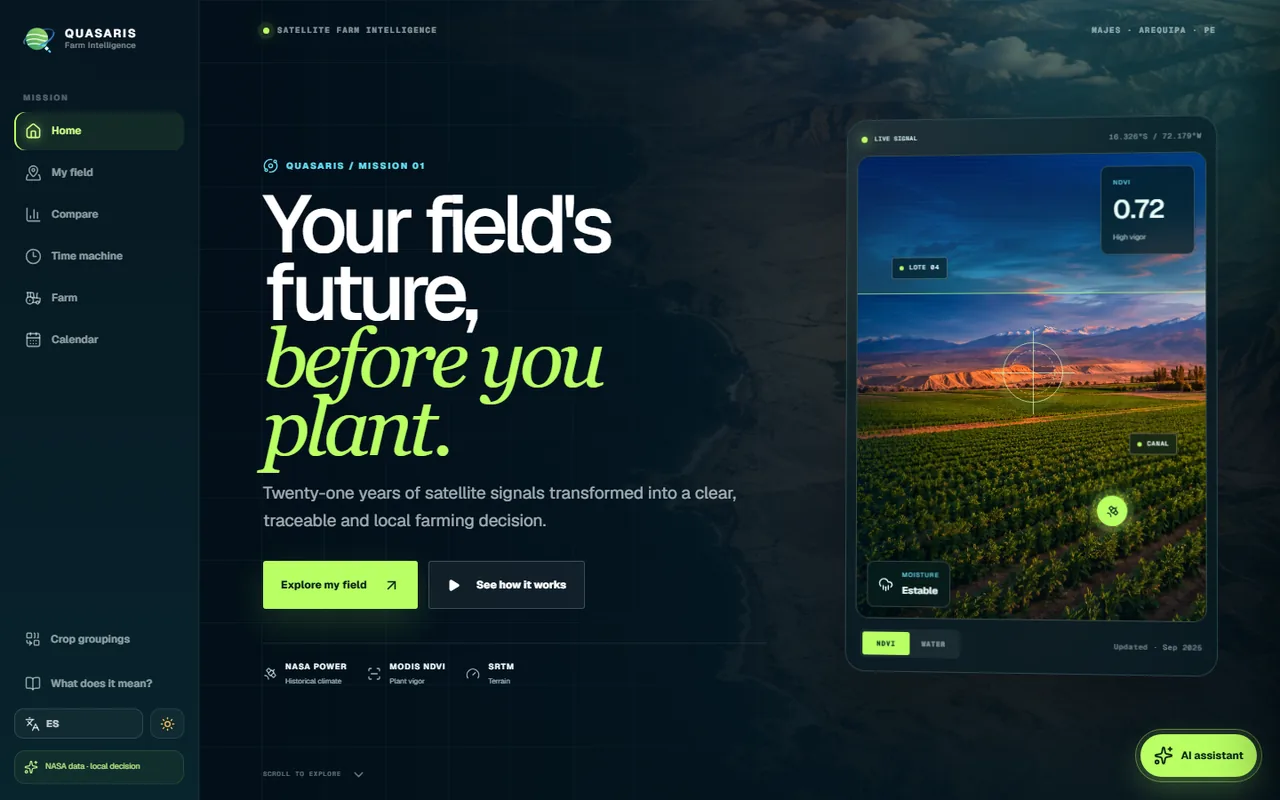
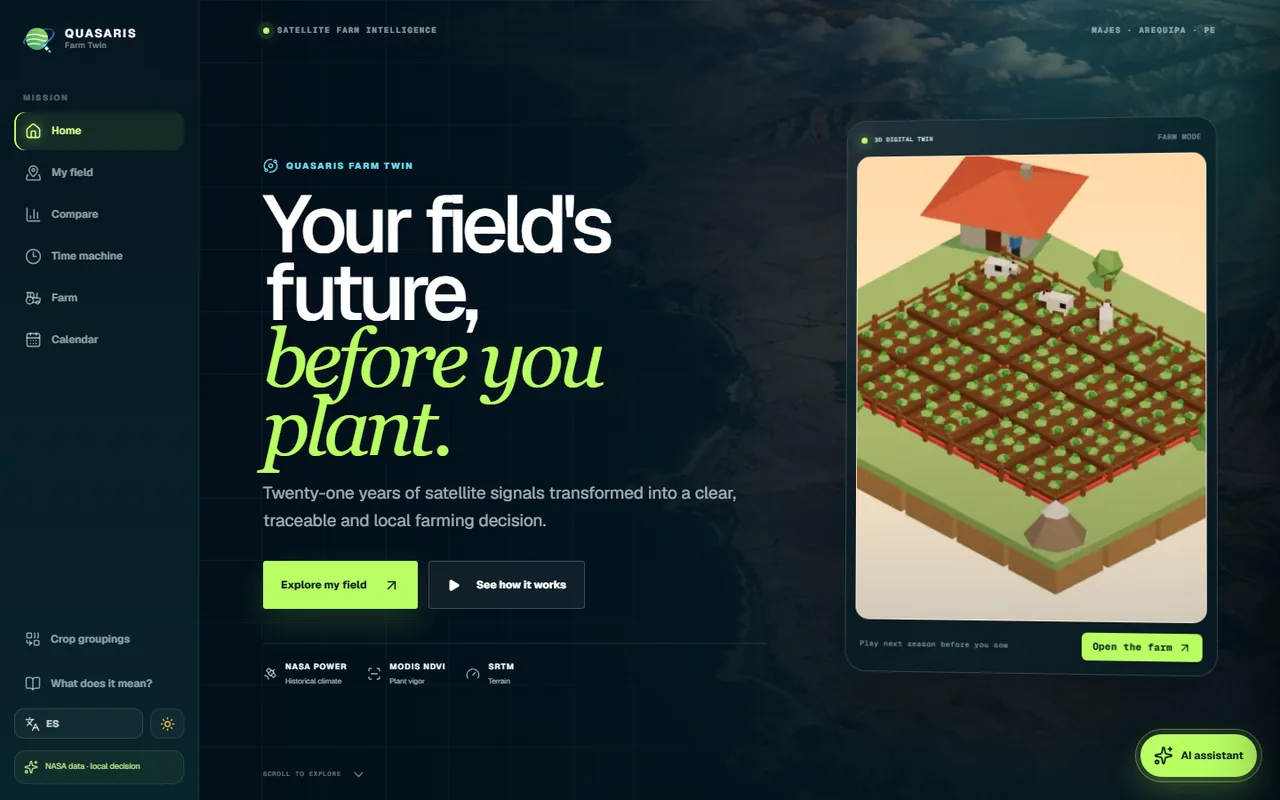
Home shows the 3D farm and the brand reads "Farm Twin"
- The home hero card now shows a real screenshot of the 3D farm digital
  twin (public/images/farm-twin.webp) and links to farm mode, replacing
  the generic photo with detector overlays.
- "Farm Intelligence" becomes "Farm Twin" under the logo; the hero
  eyebrow drops "MISSION 01".
- README cover updated with the new home page.

Changed region(s): [[0.6562, 0.1562, 0.9688, 0.8438], [0.2812, 0.1875, 0.3438, 0.2188], [0.0625, 0.0312, 0.0938, 0.0625]]

diff --git a/app/globals.css b/app/globals.css
@@ -1294,6 +1294,15 @@
 .qx-time-console { min-height:335px; padding:24px; border:1px solid rgba(132,227,232,.15); background:rgba(8,31,42,.78); backdrop-filter:blur(14px); }.qx-console-head { display:flex; align-items:center; justify-content:space-between; margin-bottom:24px; }.qx-console-head span { display:flex; align-items:center; gap:8px; color:var(--qx-cyan); font-size:8px; font-weight:800; letter-spacing:.13em; }.qx-console-head strong { color:var(--qx-lime); font-family:var(--font-geist-mono); font-size:20px; }.qx-year-line { height:104px; display:flex; align-items:flex-end; gap:4px; padding:0 2px; border-bottom:1px solid rgba(255,255,255,.1); }.qx-year-line i { flex:1; min-height:13px; border-radius:2px 2px 0 0; background:rgba(104,209,219,.2); transition:.3s ease; }.qx-year-line i.active { background:var(--qx-lime); box-shadow:0 0 18px rgba(185,255,99,.3); }.qx-time-console input { width:100%; margin:17px 0 21px; accent-color:var(--qx-lime); }.qx-console-result { display:grid; grid-template-columns:1fr 1fr; gap:12px; }.qx-console-result > div { display:flex; align-items:center; gap:10px; padding:12px; border:1px solid rgba(255,255,255,.08); }.qx-console-result span { display:flex; flex-direction:column; gap:3px; }.qx-console-result small { color:rgba(255,255,255,.42); font-size:7px; letter-spacing:.1em; }.qx-console-result strong { font-size:12px; }.qx-time-console > p { display:flex; align-items:center; gap:8px; margin:16px 0 0; color:rgba(209,235,233,.45); font-size:8px; line-height:1.5; }
 .qx-decision-cta { display:flex; flex-direction:column; align-items:flex-start; gap:20px; margin-top:14px; padding:25px; border:1px solid rgba(255,255,255,.1); background:linear-gradient(90deg,rgba(41,112,104,.16),rgba(7,23,34,.2)); }.qx-decision-cta p { max-width:690px; margin:0; color:rgba(226,244,242,.57); font-size:11px; line-height:1.65; }.qx-decision-cta a { display:flex; align-items:center; gap:19px; min-height:48px; padding:0 17px; color:#0a251c; background:var(--qx-lime); font-size:10px; font-weight:850; }.qx-decision-cta a:hover svg { transform:translateX(4px); }
 .qx-final-cta { position:relative; min-height:610px; display:flex; align-items:center; overflow:hidden; isolation:isolate; padding:80px clamp(20px,7vw,110px); color:#fff; background:#132b26; }.qx-final-photo { position:absolute; z-index:-3; inset:-40px; background:url('/images/majes-fields.png') center 55% / cover no-repeat; animation:qxFieldDrift 15s ease-in-out infinite alternate; }.qx-final-cta::after { content:""; position:absolute; z-index:-2; inset:0; background:linear-gradient(90deg,rgba(4,23,27,.94),rgba(4,26,27,.78) 48%,rgba(4,26,27,.18)),linear-gradient(0deg,rgba(4,20,23,.55),transparent); }.qx-final-copy { max-width:740px; }.qx-final-copy h2 { margin:17px 0; font-size:clamp(49px,7vw,92px); font-weight:500; letter-spacing:-.07em; line-height:.88; }.qx-final-copy p { max-width:540px; margin:0 0 29px; color:rgba(235,248,245,.68); font-size:14px; line-height:1.7; }.qx-final-orbit { position:absolute; right:-35px; top:38px; color:rgba(186,255,123,.16); animation:qxRotate 18s linear infinite; }
+/* tarjeta de la portada: captura del modo granja */
+.qx-farm-card { display: block; color: inherit; text-decoration: none; transition: transform .35s var(--ease), box-shadow .35s var(--ease); }
+.qx-farm-card:hover { transform: translateY(-4px); }
+.qx-farm-frame { background: #fde3c4; }
+.qx-farm-frame::after { background: linear-gradient(0deg, rgba(5,25,31,.18), transparent 40%); }
+.qx-farm-frame img { position: absolute; inset: 0; width: 100%; height: 100%; object-fit: cover; animation: qxFieldDrift 22s ease-in-out infinite alternate; transition: transform .6s var(--ease); }
+.qx-farm-card:hover .qx-farm-frame img { transform: scale(1.04); }
+.qx-farm-card footer { padding: 12px 5px 4px; }
+.qx-farm-cta { display: inline-flex; align-items: center; gap: 6px; padding: 7px 12px; border-radius: 6px; color: #0c2b24; background: var(--qx-lime); font-size: 11px; font-weight: 800; letter-spacing: .02em; text-transform: none; }
 @keyframes qxBlink { 0%,100%{opacity:1}50%{opacity:.28} }
 @keyframes qxCardIn { from{opacity:0;transform:perspective(1400px) rotateY(-10deg) translateX(50px)}to{opacity:1;transform:perspective(1400px) rotateY(-4deg) rotateX(1deg)} }
 @keyframes qxFieldDrift { to{transform:scale(1.08) translate3d(-1.5%,1%,0)} }

diff --git a/components/dashboard/dashboard-client.tsx b/components/dashboard/dashboard-client.tsx
@@ -1,5 +1,6 @@
 "use client";
 
+import Image from "next/image";
 import Link from "next/link";
 import { useEffect, useMemo, useState } from "react";
 import {
@@ -27,7 +28,6 @@ import { useFarm } from "@/lib/farm-store";
 import { simulate } from "@/lib/engine-client";
 import type { RotationResult, SimulateResponse } from "@/lib/contract";
 
-type SignalMode = "ndvi" | "water";
 
 const FORMAT = new Intl.NumberFormat("es-PE", { maximumFractionDigits: 0 });
 
@@ -51,7 +51,6 @@ export function DashboardClient() {
   const [data, setData] = useState<SimulateResponse | null>(null);
   const [year, setYear] = useState(2020);
   const [stage, setStage] = useState(0);
-  const [signalMode, setSignalMode] = useState<SignalMode>("ndvi");
   const [scrollY, setScrollY] = useState(0);
 
   useEffect(() => {
@@ -130,7 +129,7 @@ export function DashboardClient() {
 
         <div className="qx-hero-layout">
           <div className="qx-hero-copy">
-            <div className="qx-eyebrow"><Orbit size={17} /> QUASARIS / MISSION 01</div>
+            <div className="qx-eyebrow"><Orbit size={17} /> QUASARIS FARM TWIN</div>
             <h1>
               {es ? <>El futuro de tu parcela, <em>antes de sembrar.</em></> : <>Your field&apos;s future, <em>before you plant.</em></>}
             </h1>
@@ -150,29 +149,20 @@ export function DashboardClient() {
             </div>
           </div>
 
-          <div className="qx-signal-card">
+          <Link href={`/${locale}/granja`} className="qx-signal-card qx-farm-card" aria-label={es ? "Abrir el modo granja" : "Open farm mode"}>
             <header>
-              <div><span className="qx-live-dot" /><small>{es ? "SEÑAL EN VIVO" : "LIVE SIGNAL"}</small></div>
-              <span>16.326°S / 72.179°W</span>
+              <div><span className="qx-live-dot" /><small>{es ? "GEMELO DIGITAL 3D" : "3D DIGITAL TWIN"}</small></div>
+              <span>{es ? "MODO GRANJA" : "FARM MODE"}</span>
             </header>
-            <div className={`qx-satellite-frame mode-${signalMode}`}>
-              <div className="qx-field-image" />
-              <div className="qx-scan-beam" />
-              <div className="qx-crosshair"><i /><i /></div>
-              <div className="qx-map-label qx-map-label-a"><span /> LOTE 04</div>
-              <div className="qx-map-label qx-map-label-b"><span /> CANAL</div>
-              <div className="qx-floating-reading qx-reading-top"><small>NDVI</small><strong>{signalMode === "ndvi" ? "0.72" : "—"}</strong><span>{es ? "Vigor alto" : "High vigor"}</span></div>
-              <div className="qx-floating-reading qx-reading-bottom"><CloudRain size={17} /><span><small>{es ? "HUMEDAD" : "MOISTURE"}</small><strong>{signalMode === "water" ? "64%" : "Estable"}</strong></span></div>
-              <div className="qx-orbit-node"><Satellite size={15} /></div>
+            <div className="qx-satellite-frame qx-farm-frame">
+              {/* captura real del modo granja (public/images/farm-twin.webp) */}
+              <Image src="/images/farm-twin.webp" alt={es ? "Gemelo digital 3D de una chacra con parcelas sembradas, casa, animales y reservorio" : "3D digital twin of a farm with planted plots, a house, animals and a reservoir"} fill sizes="(min-width: 1050px) 520px, 92vw" priority />
             </div>
             <footer>
-              <div className="qx-mode-switch" aria-label={es ? "Capa satelital" : "Satellite layer"}>
-                <button className={signalMode === "ndvi" ? "active" : ""} onClick={() => setSignalMode("ndvi")}>NDVI</button>
-                <button className={signalMode === "water" ? "active" : ""} onClick={() => setSignalMode("water")}>{es ? "Agua" : "Water"}</button>
-              </div>
-              <span>{es ? "Actualizado · Sep 2025" : "Updated · Sep 2025"}</span>
+              <span>{es ? "Juega la próxima campaña antes de sembrar" : "Play next season before you sow"}</span>
+              <span className="qx-farm-cta">{es ? "Abrir la granja" : "Open the farm"}<ArrowUpRight size={15} /></span>
             </footer>
-          </div>
+          </Link>
         </div>
 
         <button className="qx-scroll-cue" onClick={() => document.getElementById("qx-story")?.scrollIntoView({ behavior: "smooth" })}>

diff --git a/components/app-nav.tsx b/components/app-nav.tsx
@@ -31,7 +31,7 @@ export function AppNav() {
       <aside className="desktop-sidebar">
         <Link href={`/${locale}`} className="brand-lockup" aria-label="Quasaris">
           <QuasarisMark width={42} height={42} />
-          <span><strong>QUASARIS</strong><small>Farm Intelligence</small></span>
+          <span><strong>QUASARIS</strong><small>Farm Twin</small></span>
         </Link>
         <p className="nav-section-label">{locale === "es" ? "MISIÓN" : "MISSION"}</p>
         <nav aria-label={locale === "es" ? "Navegación principal" : "Main navigation"}>
@@ -54,7 +54,7 @@ export function AppNav() {
       </aside>
 
       <header className="mobile-header">
-        <Link href={`/${locale}`} className="brand-lockup"><QuasarisMark width={34} height={34} /><span><strong>QUASARIS</strong><small>Farm Intelligence</small></span></Link>
+        <Link href={`/${locale}`} className="brand-lockup"><QuasarisMark width={34} height={34} /><span><strong>QUASARIS</strong><small>Farm Twin</small></span></Link>
         <div className="mobile-header-actions">
           <ThemeSwitch />
           <Link href={`/${other}${rest ? `/${rest}` : ""}`} className="language-switch" aria-label={t("app.language")}>{other.toUpperCase()}</Link>

diff --git a/README.md b/README.md
@@ -6,7 +6,7 @@ NASA Space Apps Challenge 2026 · challenge **Field Shift: Adapting Farms with N
 
 **Live app:** https://quasaris-farmtwin.vercel.app
 
-![Quasaris FarmTwin home page: "Your field's future, before you plant"](docs/screenshots/home.webp)
+![Quasaris FarmTwin home page: "Your field's future, before you plant", with the 3D farm digital twin](docs/screenshots/home.webp)
 
 ## Summary
 
